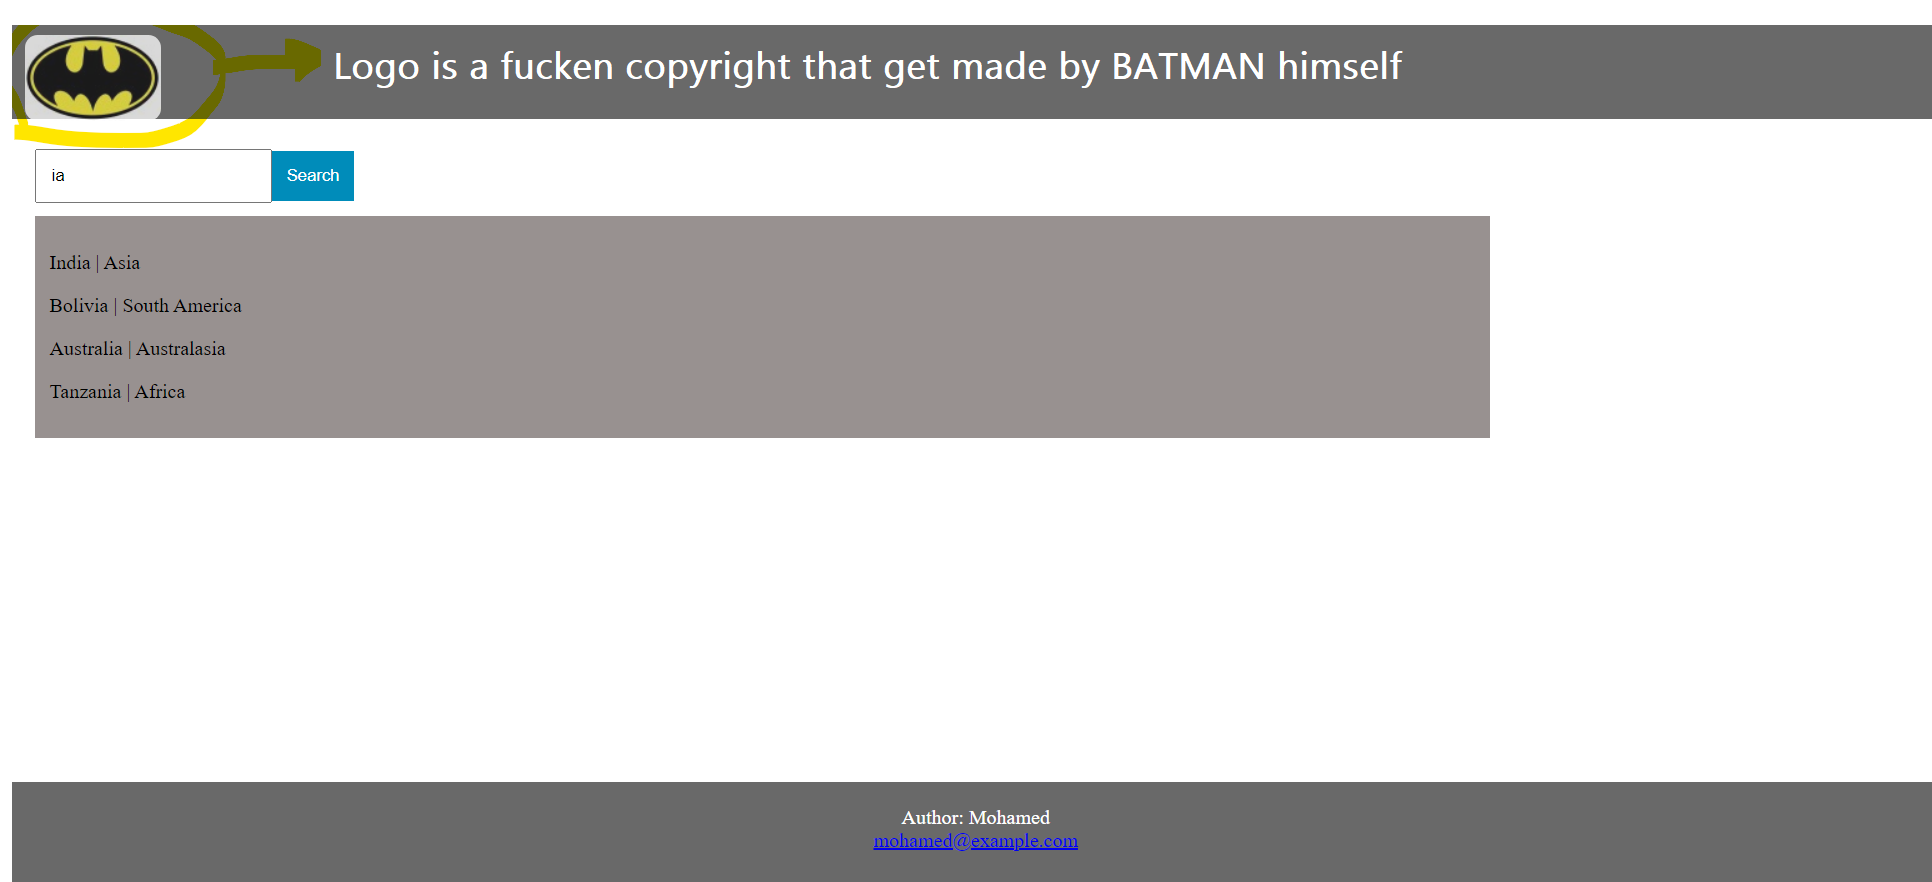
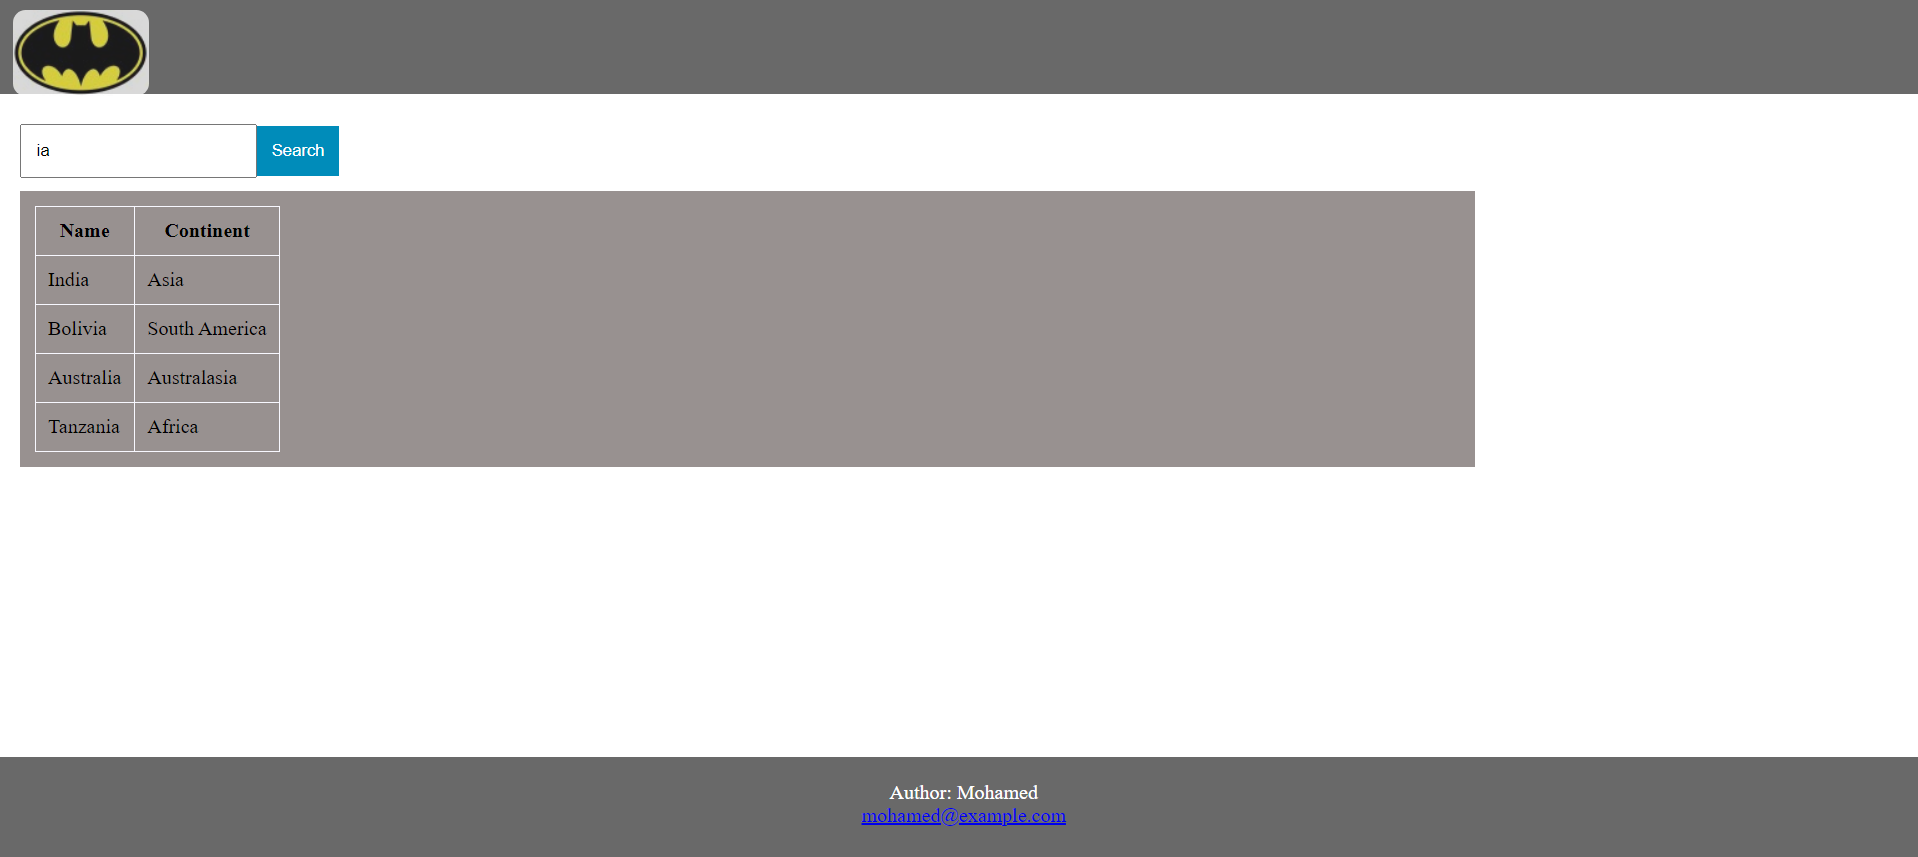
styling searched result

Changed region(s): [[0.0, 0.0, 1.0, 0.5461], [0.0, 0.8798, 1.0, 1.0]]

diff --git a/practice-app/src/components/SearchBar.js b/practice-app/src/components/SearchBar.js
@@ -5,7 +5,7 @@ export default class SearchBar extends React.Component {
 
     constructor() {
         super();
-        this.state = { searchedResult: [] };
+        this.state = { searchedResult: null, didSearch: false };
 
         // This binding is necessary to make `this` work in the callback
         this.search = this.search.bind(this);
@@ -53,15 +53,31 @@ export default class SearchBar extends React.Component {
         var collectedResult = [];
         for (var cursor = 0; cursor < countries.length; cursor++) {
             if (countries[cursor].name.search(regex) > -1) {
-                collectedResult.push(<p>{countries[cursor].name} | {countries[cursor].continent}</p>);
+                collectedResult.push(<tr><td>{countries[cursor].name}</td><td>{countries[cursor].continent}</td></tr>);
             }
         }
         console.log("## " + collectedResult.length);
 
-        this.setState({ searchedResult: collectedResult });
+        this.setState({ searchedResult: collectedResult, didSearch: true });
     }
 
     render() {
+
+        var result;
+        if (this.state.didSearch) {
+            if (this.state.searchedResult.length > 0) {
+                result = <table>
+                            <tr>
+                                <th>Name</th>
+                                <th>Continent</th>
+                            </tr>
+                            {this.state.searchedResult}
+                        </table>;
+            } else {
+                result = "NO DATA FOUND !!!";
+            }
+        }
+
         return (
             <div>
                 <div class="search-box">
@@ -70,7 +86,7 @@ export default class SearchBar extends React.Component {
                 </div>
 
                 <div id="search-result" class="search-result">
-                    {this.state.searchedResult.length > 0 ? this.state.searchedResult : "NO DATA FOUND !!!"}
+                    {result}
                 </div>
             </div>
         );

diff --git a/practice-app/public/css/styles.css b/practice-app/public/css/styles.css
@@ -42,11 +42,23 @@ header {
 .search-result {
     padding: 12px 12px;
     position: relative;
-    left: 10px;    
+    left: 10px;
     top: 80px;
     margin-top: 10px;
     width: 75%;
     background: #989190;
+}
+
+table,
+th,
+td {
+    border: 1px solid ghostwhite;
+    border-collapse: collapse;
+}
+
+th,
+td {
+    padding: 10px;
 }
 
 footer {
